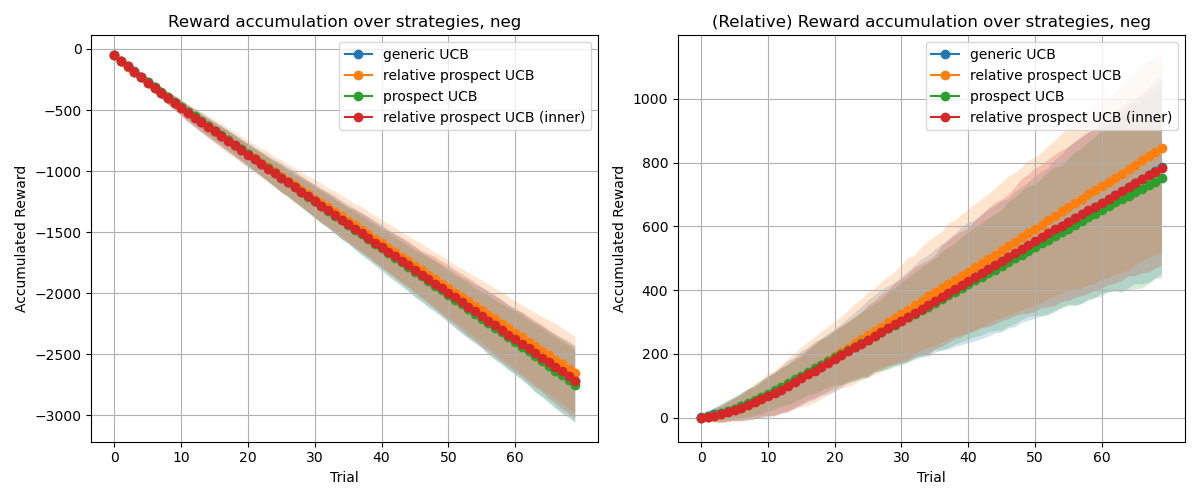
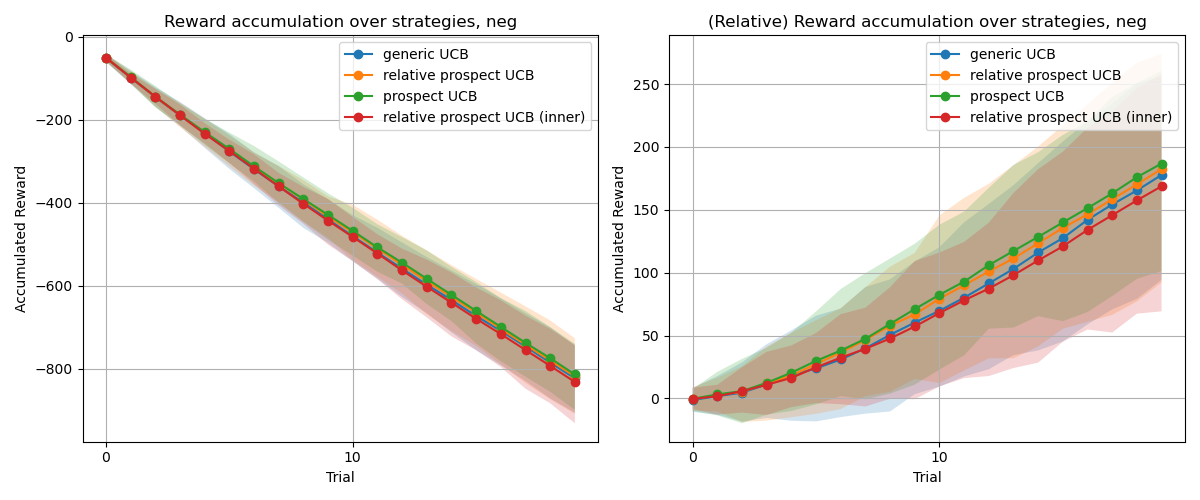
feat: fit strategy parameters with optuna

diff --git a/test.py b/test.py
@@ -1,15 +1,18 @@
 import numpy as np
 import matplotlib.pyplot as plt
 from scipy.stats import ttest_ind
+from scipy.optimize import minimize
 import itertools
+import optuna
+optuna.logging.set_verbosity(optuna.logging.WARNING)
 
 # Env setting
 
 np.random.seed(42)
 variance = 10
 noise = 10
-horizon = 70
-num = 300
+horizon = 20
+num = 100
 mean = [50, 0, -50]
 expected_mean = [50, 0, -50]
 
@@ -63,12 +66,12 @@ def simulate(option, env, mean, hori = horizon) :
 
     return al, rl, result, switch
 
-def prospect(x, alpha=0.88, beta=0.88, lam=2.25):
+def prospect(x, alpha, lam):
     if isinstance(x, (float, int)):
         if x >= 0:
             return  np.power(x, alpha)
         else:
-            return  -lam * np.power(-x, beta)
+            return  -lam * np.power(-x, alpha)
     elif isinstance(x, np.ndarray):
         util = np.empty_like(x, dtype=float)
 
@@ -76,23 +79,72 @@ def prospect(x, alpha=0.88, beta=0.88, lam=2.25):
         neg = x < 0
 
         util[pos] = np.power(x[pos], alpha)
-        util[neg] = -lam * np.power(-x[neg], beta)
+        util[neg] = -lam * np.power(-x[neg], alpha)
 
         return util
 
-def get_action(mean, variance, option, result) :
+def get_action(mean, variance, option, result, alpha=0.88, beta = 1, lam=2.25) :
     if (option == 0) : # generic UCB
-        return np.argmax(mean + variance)
+        return np.argmax(mean + beta * variance)
     elif (option == 1) : # relatvie prospect UCB
-        return np.argmax(prospect(mean + result) - prospect(result) + variance)
+        return np.argmax(prospect(mean + result, alpha=alpha, lam=lam) - prospect(result, alpha=alpha, lam=lam) + beta * variance)
     elif (option == 2) : # prospect UCB
-        return np.argmax(prospect(mean) + variance)
+        return np.argmax(prospect(mean, alpha=alpha, lam=lam) + beta * variance)
     elif (option == 3) : # relative prospect UCB (inner)
-        return np.argmax(prospect(mean + variance + result) - prospect(result))
+        return np.argmax(prospect(mean + beta * variance + result, alpha=alpha, lam=lam) - prospect(result, alpha=alpha, lam=lam))
  
     return 0
 
+def reward(alpha, beta, lam, m, v, option, e) :
 
+    tot = 0
+
+    for i in range(num) :
+        cur = 0
+        env = tot_env[e][i, :]
+        mu_post = np.array([m for i in range(10)])
+        sigma_post = np.array([v for i in range(10)])
+        sigma_0 = v
+
+        for t in range(horizon):
+            action = get_action(mu_post, sigma_post, option, cur, alpha = alpha, beta = beta, lam = lam)
+            reward = select_arm(action, env)
+            cur += reward
+
+            K_t = sigma_post[action] / (sigma_post[action] + sigma_0)
+            sigma_post[action] = (1-K_t) * sigma_post[action]
+            mu_post[action] += K_t * (reward - mu_post[action])
+            
+        tot += cur
+    
+    return tot
+
+for st, name in enumerate(strategy) :
+    en = 1
+
+    def objective(trial):
+        if st != 0 :
+            alpha = trial.suggest_float('alpha', 0.1, 3.0)
+            beta = trial.suggest_float('beta', -10, 10)
+            lamb = trial.suggest_float('lambda', 1.0, 10.0)
+            m = trial.suggest_float('mean', -100.0, 100.0)
+            n = trial.suggest_float('noise', 0.1, 20.0)
+        else :
+            alpha = 1
+            beta = trial.suggest_float('beta', -10, 10)
+            lamb = 1
+            m = trial.suggest_float('mean', -100.0, 100.0)
+            n = trial.suggest_float('noise', 0.1, 20.0)
+            
+        return reward(alpha, beta, lamb, m, n, st, en)
+
+    study = optuna.create_study(direction='maximize')
+    study.optimize(objective, n_trials=1000)
+
+    print("[" + name + "]")
+    print("Best parameters:", study.best_params)
+
+"""
 result_r = [[], [], []] # env * strategy * trial * horizon
 tot_r = [[], [], []] # env * strategy * trial
 switch = [[], [], []] # env * strategy * trial
@@ -110,6 +162,11 @@ for i in range(4):
             tot_r[e][i].append(total)
             switch[e][i].append(s)
 tot_r = np.array(tot_r)
+
+
+
+
+# Results
 
 x = [i for i in range(horizon)]
 for e in range(3) :
@@ -221,3 +278,4 @@ plt.grid(True, axis='y')
 plt.legend()
 plt.tight_layout()
 plt.savefig("images/grouped_switch_ratio_with_pvalues.png")
+"""
